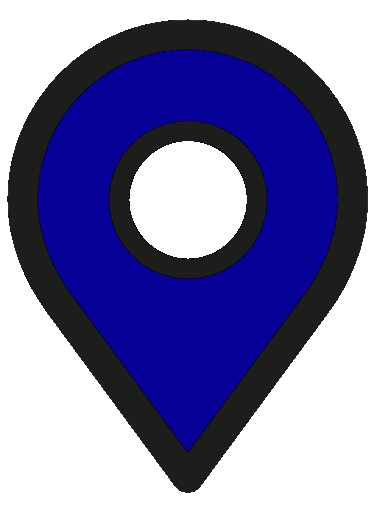
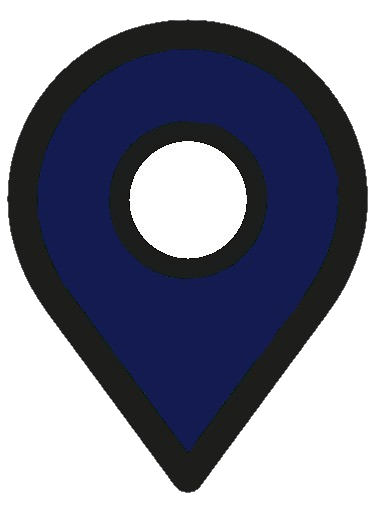
Add files via upload

diff --git a/js/index.js b/js/index.js
@@ -15,18 +15,21 @@ var imageBounds = [[0, 0], [imageHeight, 7680]];
 
 
 var redIcon = L.icon({
-  iconUrl: './img/iconRed.png',
-  iconSize: [24,24], // size of the icon
+  iconUrl: './img/iconBlue.png',
+  iconSize: [26,26], // size of the icon
 });
 var blueIcon = L.icon({
-  iconUrl: './img/iconBlue.png',
-  iconSize: [24,24], // size of the icon
+  iconUrl: './img/iconGreen.png',
+  iconSize: [26,26], // size of the icon
 });
 var greenIcon = L.icon({
-  iconUrl: './img/iconGreen.png',
-  iconSize: [24,24], // size of the icon
+  iconUrl: './img/iconRed.png',
+  iconSize: [26,26], // size of the icon
 });
-
+var yellowIcon = L.icon({
+  iconUrl: './img/iconYellow.png',
+  iconSize: [26,26], // size of the icon
+});
 
 
 
@@ -54,24 +57,26 @@ function createMarkers(places) {
     const coords = place.coords.split(',');
 
     // Verificar se o lugar é um marcador ou uma polilinha
-    if (place.type === 'Structure' || place.type === 'Mountain' || place.type === 'City') {
+    if (place.type !== "River") {
       const lat = parseFloat(coords[0].trim());
       const lng = parseFloat(coords[1].trim());
 
       let marker;
-
       // Criação do marcador com as coordenadas e o ícone personalizado com base no type
       if (place.type === 'Structure') {
-        marker = L.marker([lat, lng], { icon: redIcon });
+        marker = L.marker([lat, lng], { icon: redIcon});       
       } else if (place.type === 'Mountain') {
         marker = L.marker([lat, lng], { icon: blueIcon });
       } else if (place.type === 'City') {
         marker = L.marker([lat, lng], { icon: greenIcon });
+      } else if (place.type === 'Region') {
+        marker = L.marker([lat, lng], { icon: yellowIcon });
       }
 
       // Definir o tipo do marcador com base no valor do lugar
       marker.type = place.type;
 
+      
     marker.on("click", function() {
     var pos = map.latLngToLayerPoint(marker.getLatLng());
     pos.y -= 15;
@@ -87,7 +92,7 @@ function createMarkers(places) {
 marker.on('click', function() {
   const content = `
   <div>
-    <h3>${place.name}</h3>
+    <h2>${place.name}</h2>
     <p>${place.description}</p>
   </div>
 `;
@@ -150,8 +155,7 @@ function showModal(content) {
   // Configuração e abertura do modal usando a biblioteca IziModal
   $(`#${modalId}`).iziModal({
     headerColor: '#333',
-    background: 'rgba(0, 0, 0, 0.7)',
-    color: '#000000',
+    background: 'rgba(0, 1, 11, 0.7)',
     width: 600,
     padding: 20,
     closeOnEscape: true,
@@ -162,6 +166,13 @@ function showModal(content) {
       $(`#${modalId}`).remove();
     }
   });
+
+  // Aplicar estilos personalizados ao modal
+$(`#${modalId}`).css({
+  color: '#fff',    // Definir a cor do texto como branca
+  'box-shadow': '0 0 2px rgba(255, 155, 5, 0.7)',   // Simular borda de 0.5px com sombra
+  'border-radius': '10px'   // Definir o raio dos cantos arredondados
+});
 
   $(`#${modalId}`).iziModal('open');
 }
@@ -229,98 +240,22 @@ fetchJSON()
         hideMarkers(markers.filter(marker => marker.type === checkbox.value));
       }
     });
-    
+    // Tratamento do evento de mudança no filtro
+    document.getElementById('RegionFilter').addEventListener('change', function(event) {
+      const checkbox = event.target;
+  
+      if (checkbox.checked) {
+        showMarkers(markers.filter(marker => marker.type === checkbox.value));
+      } else {
+        hideMarkers(markers.filter(marker => marker.type === checkbox.value));
+      }
+    });
 
 
   })
   .catch(error => {
     console.error('Erro ao carregar o arquivo JSON:', error);
   });
-
-
-
-
-
-
-/*
-// Crie um polígono com base nas coordenadas dos vértices (vertical/horizontal)
-var coordenadas = "3800,3700,3000,4100,2000,3500,1900,3000,2300,3000,2700,2100,3800,2400";
-var paresCoordenadas = coordenadas.split(","); // Separar as coordenadas em pares
-var arrayCoordenadas = [];
-for (var i = 0; i < paresCoordenadas.length; i += 2) {
-    var x = parseInt(paresCoordenadas[i]);
-    var y = parseInt(paresCoordenadas[i + 1]);
-    arrayCoordenadas.push([x, y]); // Adicionar o par de coordenadas ao array
-}
-
-
-// Crie um polígono com base nas coordenadas dos vértices
-var polygonPoints = arrayCoordenadas;
-// Defina a cor de preenchimento do polígono
-var polygon = L.polygon(polygonPoints, { fillColor: 'red' }).addTo(map);
-/*
-// Tratamento dos eventos dos filtros
-// Tratamento do filtro
-document.getElementById('kingdomsFilter').addEventListener('change', function(event) {
-    if (event.target.checked) {
-      // Mostrar o marcador de Lothlórien
-      markerLorien.addTo(map);
-      markerGondor.addTo(map);
-      markerMordor.addTo(map);
-      markerErebor.addTo(map);
-      markerLindon.addTo(map);
-    } else {
-      // Ocultar o marcador de Lothlórien
-      markerLorien.removeFrom(map);
-      markerGondor.removeFrom(map);
-      markerMordor.removeFrom(map);
-      markerErebor.removeFrom(map);
-      markerLindon.removeFrom(map);
-    }
-  });
-
-// Tratamento dos eventos dos filtros
-// Tratamento do filtro
-document.getElementById('portsFilter').addEventListener('change', function(event) {
-    if (event.target.checked) {
-      // Mostrar o marcador de Lothlórien
-      markerGreyports.addTo(map);
-    } else {
-      // Ocultar o marcador de Lothlórien
-      markerGreyports.removeFrom(map);
-    }
-  });
-  
-  // Repita o mesmo tratamento para os outros filtros (vilas, montanhas, etc.)
-document.getElementById('regionsFilter').addEventListener('change', function(event) {
-    if (event.target.checked) {
-      // Mostrar o marcador de Lothlórien
-      polygon.addTo(map);
-    } else {
-      // Ocultar o marcador de Lothlórien
-      polygon.removeFrom(map);
-    }
-  }); 
-
-
-  
-// Tratamento do evento 'click' no marcador
-  map.on('popupopen', function() {
-    map.tap = true;
-  });
-  
-  map.on('popupclose', function() {
-    map.tap = false;
-  });
-
-*/
-
-
-
-
-
-
-
 
 // Ajustar o mapa para que a imagem ocupe a altura desejada
 map.setView([imageHeight / 2, 7680 / 2], minZoom);

diff --git a/index.html b/index.html
@@ -34,31 +34,6 @@
 
     <link rel="stylesheet" href="https://cdnjs.cloudflare.com/ajax/libs/izimodal/1.6.0/css/iziModal.min.css">
   <script src="https://cdnjs.cloudflare.com/ajax/libs/izimodal/1.6.0/js/iziModal.min.js"></script>
-  <script>
-    /* Swal.fire({
-         title: 'Este é um mapa interativo da Terra Média!',
-         text: 'Acesse a engrenagem no canto superior esquerdo para aplicar filtros.',
-         icon: 'info',
-         confirmButtonText: 'Ok!'
-     }).then(() => {
-         Swal.fire({
-             title: 'Tolkieniano Brasil!',
-             text: 'This is a work made by © Cesar Augusto.',
-             icon: 'success',
-             confirmButtonText: 'Ok!'
-         });
-     });*/
-     $(document).ready(function() {
-// Exemplo de inicialização do iziModal
-$('#modal').iziModal();
-
-// Exemplo de abertura do modal ao clicar em um botão
-$('#open-modal').on('click', function(e) {
- e.preventDefault();
- $('#modal').iziModal('open');
-});
-});
- </script>
 </head>
 <body>
 
@@ -99,9 +74,17 @@ $('#open-modal').on('click', function(e) {
       </div>
       </a>
     </li>
-    <li><hr class="dropdown-divider"></li>
     <li>
       <a class="dropdown-item" href="#">
+        <div class="form-check form-switch custom-switch">
+          <input class="form-check-input" type="checkbox" role="switch" id="RegionFilter" value="Region" checked>
+          <label class="form-check-label" for="RegionFilter">Regiões</label>
+      </div>
+      </a>
+    </li>
+    <li><hr class="dropdown-divider"></li>
+    <li>
+      <a class="dropdown-item" href="#" id="infoAlert">
         <i class="bi bi-info-circle" style="color: #FC9B05;"></i>
         <span class="ps-3" style="color: #FFFFFF;">Informações</span>
       </a>
@@ -146,7 +129,26 @@ document.addEventListener('DOMContentLoaded', function() {
         event.stopPropagation();
       }
     </script>
-
+  <script>
+    // Obtenha a referência ao elemento do link "Informações"
+const infoAlert = document.getElementById('infoAlert');
+// Adicione um evento de clique ao link
+infoAlert.addEventListener('click', function(event) {
+  event.preventDefault(); // Evita o comportamento padrão de redirecionamento
+  
+Swal.fire({
+  html: `
+    <div class="custom-alert-container">
+      <img src="img/logo-withoutbg.png" class="img-fluid px-5">
+      <p class='pt-2 text-start'>Este é um mapa interativo da Terra-média, feito para auxiliar na leitura dos livros.<br> Aqui você pode facilmente filtrar locais relevantes, e ao clicar nos marcadores obtém-se informações adicionais. Essa iniciativa é fruto do esforço coletivo da equipe do Instagram <a href='https://www.instagram.com/tolkienianobrasil' target="_blank" style='color: #FC9B05'>TolkienianoBrasil</a>, composta por fãs apaixonados que dedicaram-se a compartilhar essa ferramenta <strong style='text-decoration: underline;'>sem nenhum objetivo financeiro</storng>.</p>
+    </div>
+  `,
+  padding: '0',
+  color: '#ffffff',
+  background: '#020C16 url(/img/Elfos_de_Valinor-transformed.png)',
+  border: '1px solid #FC9B05'})
+})
+</script>
 
 
 

diff --git a/css/style.css b/css/style.css
@@ -11,6 +11,9 @@
   body {
     font-family: 'Helvetica Neue', sans-serif;
   }
+  p{
+    font-size: 18px;
+  }
 
 html, body, #map {
     height: 100%;
@@ -105,7 +108,15 @@ html, body, #map {
 
 
 
-
+/* Estilo para a sombra dos marcadores */
+.custom-shadow {
+  background-color: rgba(0, 0, 0, 0.5);
+  border-radius: 50%;
+  width: 24px;
+  height: 24px;
+  transform: scale(1.3);
+  opacity: 0.5;
+}
 
 
 
